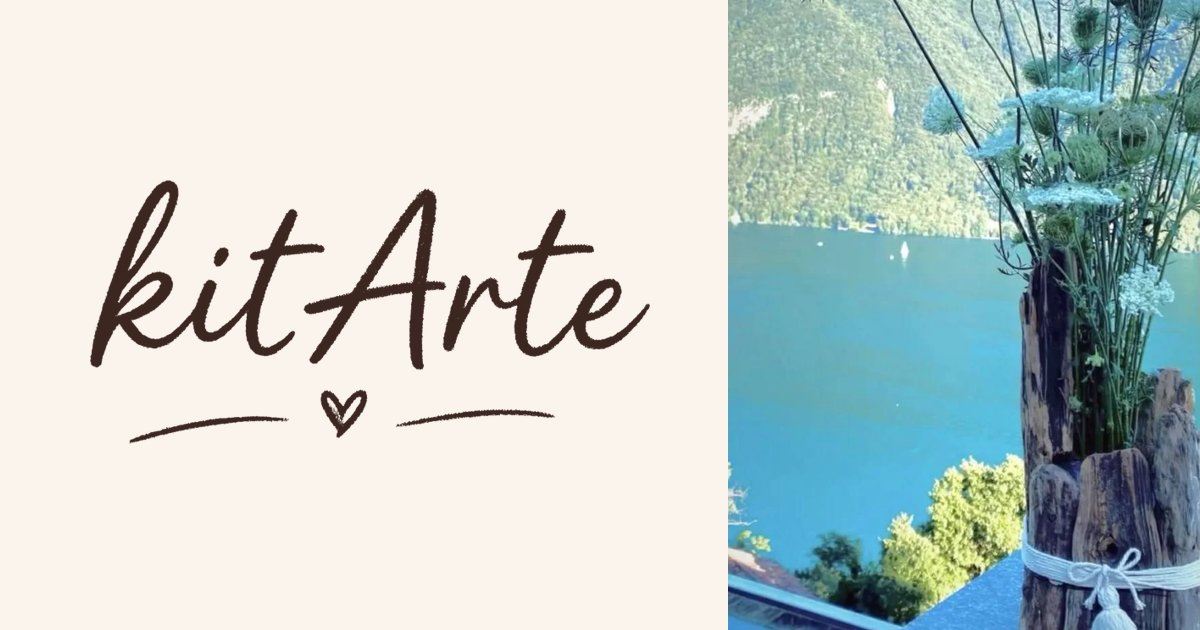
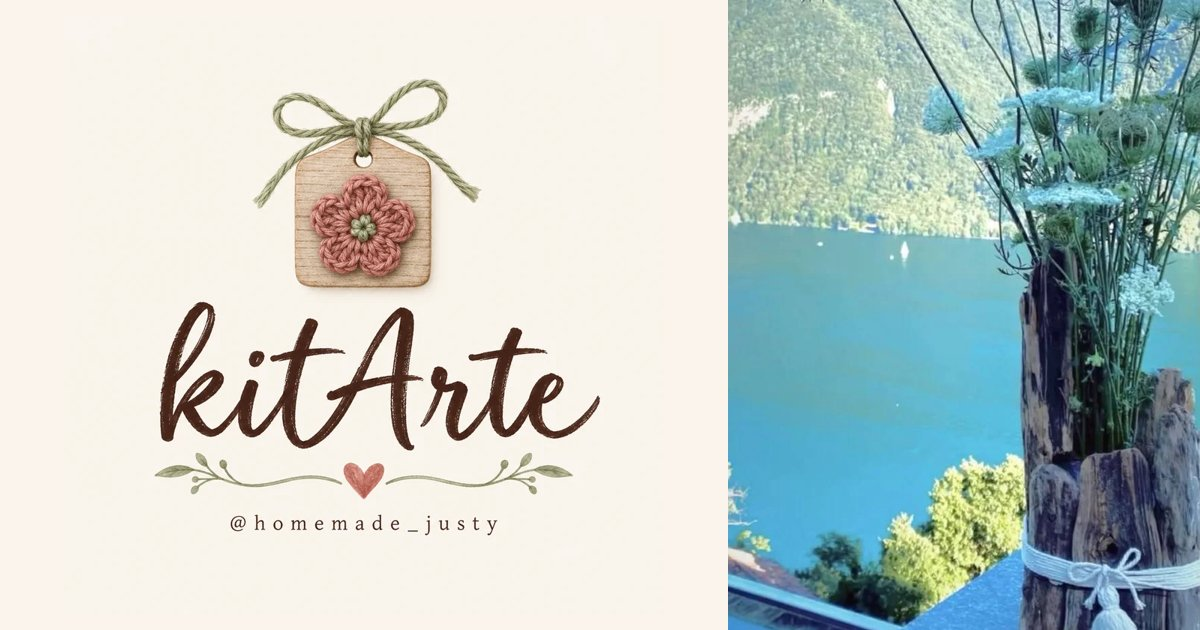
kitArte: oscillazione più lenta e morbida, nuovi loghi
Claude-Session: https://claude.ai/code/session_01PgzgnGYMcnS8HktvE49y4X

Changed region(s): [[0.0617, 0.1206, 0.555, 0.7841], [0.185, 0.8143, 0.4008, 0.8444], [0.0925, 0.6937, 0.1233, 0.7238]]

diff --git a/kitarte/index.html b/kitarte/index.html
@@ -9,6 +9,8 @@
 <meta property="og:description" content="Creare è la mia passione. Uncinetto, legno dipinto, fiori.">
 <meta property="og:image" content="foto/og.jpg">
 <meta name="theme-color" content="#FAF4EC">
+<link rel="icon" href="foto/favicon.png">
+<link rel="apple-touch-icon" href="foto/favicon.png">
 <link rel="preconnect" href="https://fonts.googleapis.com">
 <link rel="preconnect" href="https://fonts.gstatic.com" crossorigin>
 <link href="https://fonts.googleapis.com/css2?family=Fraunces:ital,opsz,wght@0,9..144,300..600;1,9..144,300..500&family=Caveat:wght@500;700&family=DM+Sans:opsz,wght@9..40,400;9..40,500;9..40,600&display=swap" rel="stylesheet">
@@ -35,7 +37,8 @@ main,header,footer{position:relative;z-index:1}
 header{position:fixed;top:0;left:0;right:0;z-index:20;transition:background .3s,box-shadow .3s}
 header.on{background:rgba(250,244,236,.92);backdrop-filter:blur(8px);-webkit-backdrop-filter:blur(8px);box-shadow:0 1px 0 var(--line)}
 .hbar{display:flex;align-items:center;justify-content:space-between;height:64px}
-.hbar .lg{height:34px;opacity:0;transform:translateY(-6px);transition:.35s}
+.hbar .lg{display:flex;align-items:center;gap:8px;opacity:0;transform:translateY(-6px);transition:.35s}
+.hbar .lg img:first-child{height:40px}.hbar .lg img:last-child{height:30px}
 header.on .hbar .lg{opacity:1;transform:none}
 .hbar nav{display:flex;gap:26px;font-size:15px}
 .hbar nav a{text-decoration:none;color:var(--ink2)}
@@ -62,8 +65,17 @@ header.on .hbar .lg{opacity:1;transform:none}
 
 /* il cartellino: elemento firma */
 .tagstage{position:relative;height:min(78vh,640px);display:flex;justify-content:center}
-.swing{position:absolute;top:-90px;transform-origin:50% 0;animation:sw 6s ease-in-out infinite;will-change:transform}
-@keyframes sw{0%,100%{transform:rotate(3.2deg)}50%{transform:rotate(-3.2deg)}}
+.swing{position:absolute;top:-90px;transform-origin:50% 0;animation:enter 4.2s both,sw 10s 4.2s ease-in-out infinite;will-change:transform}
+@keyframes sw{0%,100%{transform:rotate(6deg)}50%{transform:rotate(-6deg)}}
+@keyframes enter{
+  0%{transform:translateY(-60px) rotate(20deg);opacity:0;animation-timing-function:cubic-bezier(.3,0,.5,1)}
+  12%{opacity:1}
+  30%{transform:translateY(0) rotate(-13deg);animation-timing-function:cubic-bezier(.45,0,.55,1)}
+  55%{transform:rotate(10deg);animation-timing-function:cubic-bezier(.45,0,.55,1)}
+  78%{transform:rotate(-7deg);animation-timing-function:cubic-bezier(.45,0,.55,1)}
+  100%{transform:rotate(6deg)}}
+.tag{animation:sw2 6.5s ease-in-out infinite;transform-origin:50% 0}
+@keyframes sw2{0%,100%{transform:rotate(-1.6deg)}50%{transform:rotate(1.6deg)}}
 .twine{display:block;margin:0 auto;width:40px;height:250px;overflow:visible}
 .nail{display:block;width:16px;height:16px;margin:0 auto -6px;border-radius:50%;background:radial-gradient(circle at 35% 35%,#d9cfc4,#7a6a60);box-shadow:0 2px 3px rgba(0,0,0,.3);position:relative;z-index:1}
 @media(min-width:861px){.swing{top:-10px}.twine{height:150px}}
@@ -78,6 +90,7 @@ header.on .hbar .lg{opacity:1;transform:none}
 .tag .rose{position:absolute;inset:0;border-radius:6px;opacity:.22;pointer-events:none;
   background:repeating-radial-gradient(circle at 68% 72%,transparent 0 9px,rgba(200,160,120,.5) 10px 11px,transparent 12px 22px)}
 .tag img{width:100%;position:relative}
+.tag .hl{position:relative;width:62%;margin-top:6%}
 .tag .at{position:relative;margin-top:auto;font:500 12px/1 var(--fb);letter-spacing:.22em;color:var(--ink2);text-transform:uppercase}
 .knot{position:absolute;top:-6px;left:50%;width:34px;height:30px;margin-left:-17px}
 .hero .note{position:absolute;bottom:2%;right:4%;font-family:var(--fs);font-size:24px;color:var(--ink2);transform:rotate(-5deg)}
@@ -170,7 +183,7 @@ h2 em{font-style:italic}
 
 /* contatto */
 .contact{text-align:center}
-.contact .tagsm{width:170px;margin:0 auto 26px;transform:rotate(-4deg)}
+.contact .logosq{width:min(340px,80vw);margin:-20px auto 0}
 .contact h2{max-width:14em;margin:0 auto}
 .contact .sub{margin:18px auto 34px}
 .contact .btns{justify-content:center}
@@ -189,14 +202,14 @@ footer img{height:40px;margin:0 auto 10px;opacity:.85}
 /* reveal */
 .rv{opacity:0;transform:translateY(24px);transition:opacity .9s ease,transform .9s cubic-bezier(.2,.7,.2,1)}
 .rv.in{opacity:1;transform:none}
-@media(prefers-reduced-motion:reduce){.swing{animation:none}.rv{opacity:1;transform:none;transition:none}html{scroll-behavior:auto}}
+@media(prefers-reduced-motion:reduce){.swing,.tag{animation:none}.rv{opacity:1;transform:none;transition:none}html{scroll-behavior:auto}}
 </style>
 </head>
 <body>
 
 <header id="hd">
   <div class="wrap hbar">
-    <a href="#top" aria-label="kitArte"><img class="lg" src="foto/logo.png" alt="kitArte"></a>
+    <a href="#top" aria-label="kitArte" class="lg"><img src="foto/tag-icon.png" alt=""><img src="foto/wordmark.png" alt="kitArte"></a>
     <nav>
       <a href="#bottiglie">Bottiglie</a>
       <a href="#angeli">Angeli</a>
@@ -229,7 +242,7 @@ footer img{height:40px;margin:0 auto 10px;opacity:.85}
         <div class="tag">
           <svg class="knot" viewBox="0 0 34 30" aria-hidden="true"><path d="M17 2c-9 3-12 12-5 16 6 3 13-2 10-8-3-5-11-1-9 6 2 6 9 9 12 14M17 18c-4 3-7 7-10 10" stroke="#8FAE6E" stroke-width="4.5" fill="none" stroke-linecap="round"/><path d="M17 2c-9 3-12 12-5 16 6 3 13-2 10-8" stroke="#C3DAA6" stroke-width="4.5" fill="none" stroke-dasharray="3 5" stroke-linecap="round"/></svg>
           <div class="rose"></div>
-          <img src="foto/logo.png" alt="kitArte, il logo scritto a mano con un cuore">
+          <img src="foto/wordmark.png" alt="kitArte, il logo scritto a mano"><svg class="hl" viewBox="0 0 220 24" aria-hidden="true"><path d="M8 15c30-3 55-4 80-3M132 12c25-1 50 0 80 3" stroke="#A3AE95" stroke-width="3" stroke-linecap="round" fill="none"/><path d="M110 21c-9-6-14-10-14-14 0-3 2-5 5-5 4 0 6 3 9 6 3-3 5-6 9-6 3 0 5 2 5 5 0 4-5 8-14 14z" fill="#D58C88"/></svg>
           <span class="at">@homemade_justy</span>
         </div>
       </div>
@@ -364,7 +377,7 @@ footer img{height:40px;margin:0 auto 10px;opacity:.85}
   <!-- CONTATTO -->
   <section class="contact" id="contatto" style="padding-top:20px">
     <div class="wrap rv">
-      <div class="tagsm"><div class="tag" style="width:170px;padding:22% 10% 10%"><img src="foto/logo.png" alt=""></div></div>
+      <img class="logosq" src="foto/logo-kitarte.webp" alt="Logo kitArte: cartellino di legno con un fiore all'uncinetto e lo spago verde" loading="lazy">
       <h2>Ti è piaciuto qualcosa? <em>Scrivimi.</em></h2>
       <p class="sub">Rispondo io, di persona. Raccontami cosa cerchi.</p>
       <div class="btns">
@@ -377,7 +390,7 @@ footer img{height:40px;margin:0 auto 10px;opacity:.85}
 </main>
 
 <footer>
-  <img src="foto/logo.png" alt="kitArte">
+  <img src="foto/wordmark.png" alt="kitArte">
   <div>kitArte · love for Art · fatto a mano da Justine</div>
 </footer>
 
@@ -405,7 +418,8 @@ footer img{height:40px;margin:0 auto 10px;opacity:.85}
 
   // il cartellino risponde al dito / al mouse
   var sw=document.getElementById('swing');
-  function nudge(){sw.style.animation='none';void sw.offsetWidth;sw.style.animation='sw 6s ease-in-out infinite';sw.animate([{transform:'rotate(-9deg)'},{transform:'rotate(7deg)'},{transform:'rotate(-4deg)'},{transform:'rotate(3.2deg)'}],{duration:1600,easing:'ease-out'})}
+  var busy=false,ready=false;setTimeout(function(){ready=true},4200);
+  function nudge(){if(busy||!ready)return;busy=true;var cur=getComputedStyle(sw).transform;sw.style.animation='none';sw.style.transform=cur;var e='cubic-bezier(.45,0,.55,1)';var a=sw.animate([{transform:cur,easing:e},{transform:'rotate(-15deg)',easing:e,offset:.18},{transform:'rotate(11deg)',easing:e,offset:.42},{transform:'rotate(-8deg)',easing:e,offset:.66},{transform:'rotate(6deg)',easing:e,offset:1}],{duration:5200,easing:'linear'});a.onfinish=function(){sw.style.transform='';sw.style.animation='sw 10s ease-in-out infinite';busy=false}}
   sw.addEventListener('pointerenter',nudge);sw.addEventListener('click',nudge);
 
   // neve leggera sugli angeli
